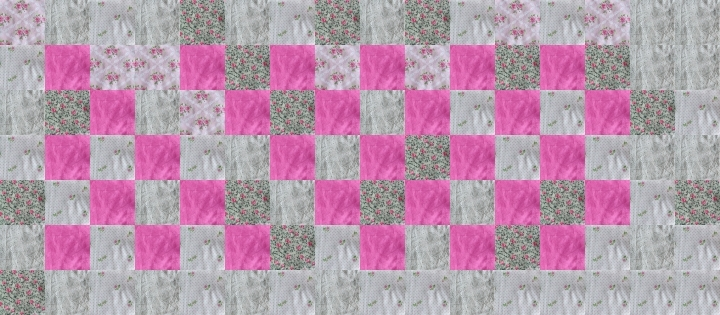
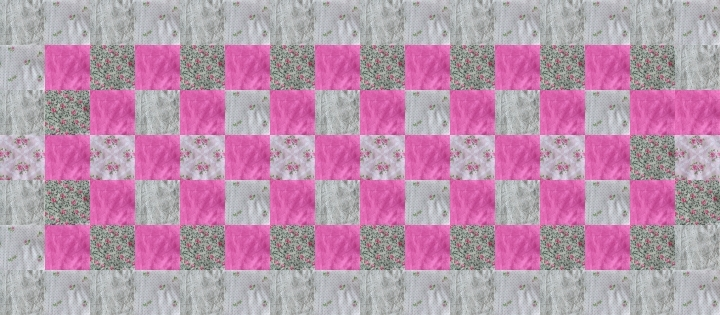
Foo is good

diff --git a/swapper.py b/swapper.py
@@ -176,7 +176,7 @@ class Swapper(QWidget):
             self, 'Open file', folder, "Image files (*.jpg)")
         if fname[0] != '':
             exif = piexif.load(Image.open(fname[0]).info['exif'])
-            if exif['0th'][333] != '':
+            if 333 in exif['0th'] and exif['0th'][333] != '':
                 lock_numbers = exif['0th'][333].decode("UTF-8").rstrip('\n')
                 lock = []
                 for line in lock_numbers.split("\n"):

diff --git a/grid.py b/grid.py
@@ -19,10 +19,10 @@ def grid_to_string(grid):
 
 def generate_grid(lock):
     jars = {
-        Color.WHITE_PINK_FLOWERS: 30,
+        Color.WHITE_PINK_FLOWERS: 24,
         Color.WHITE_GREEN_DOTS: 26,
         Color.GREEN_PINK_FLOWERS: 18,
-        Color.PINK: 30,
+        Color.PINK: 36,
         Color.LIGHT_PINK_PINK_DOTS: 8,
     }
     grid_collision = False
